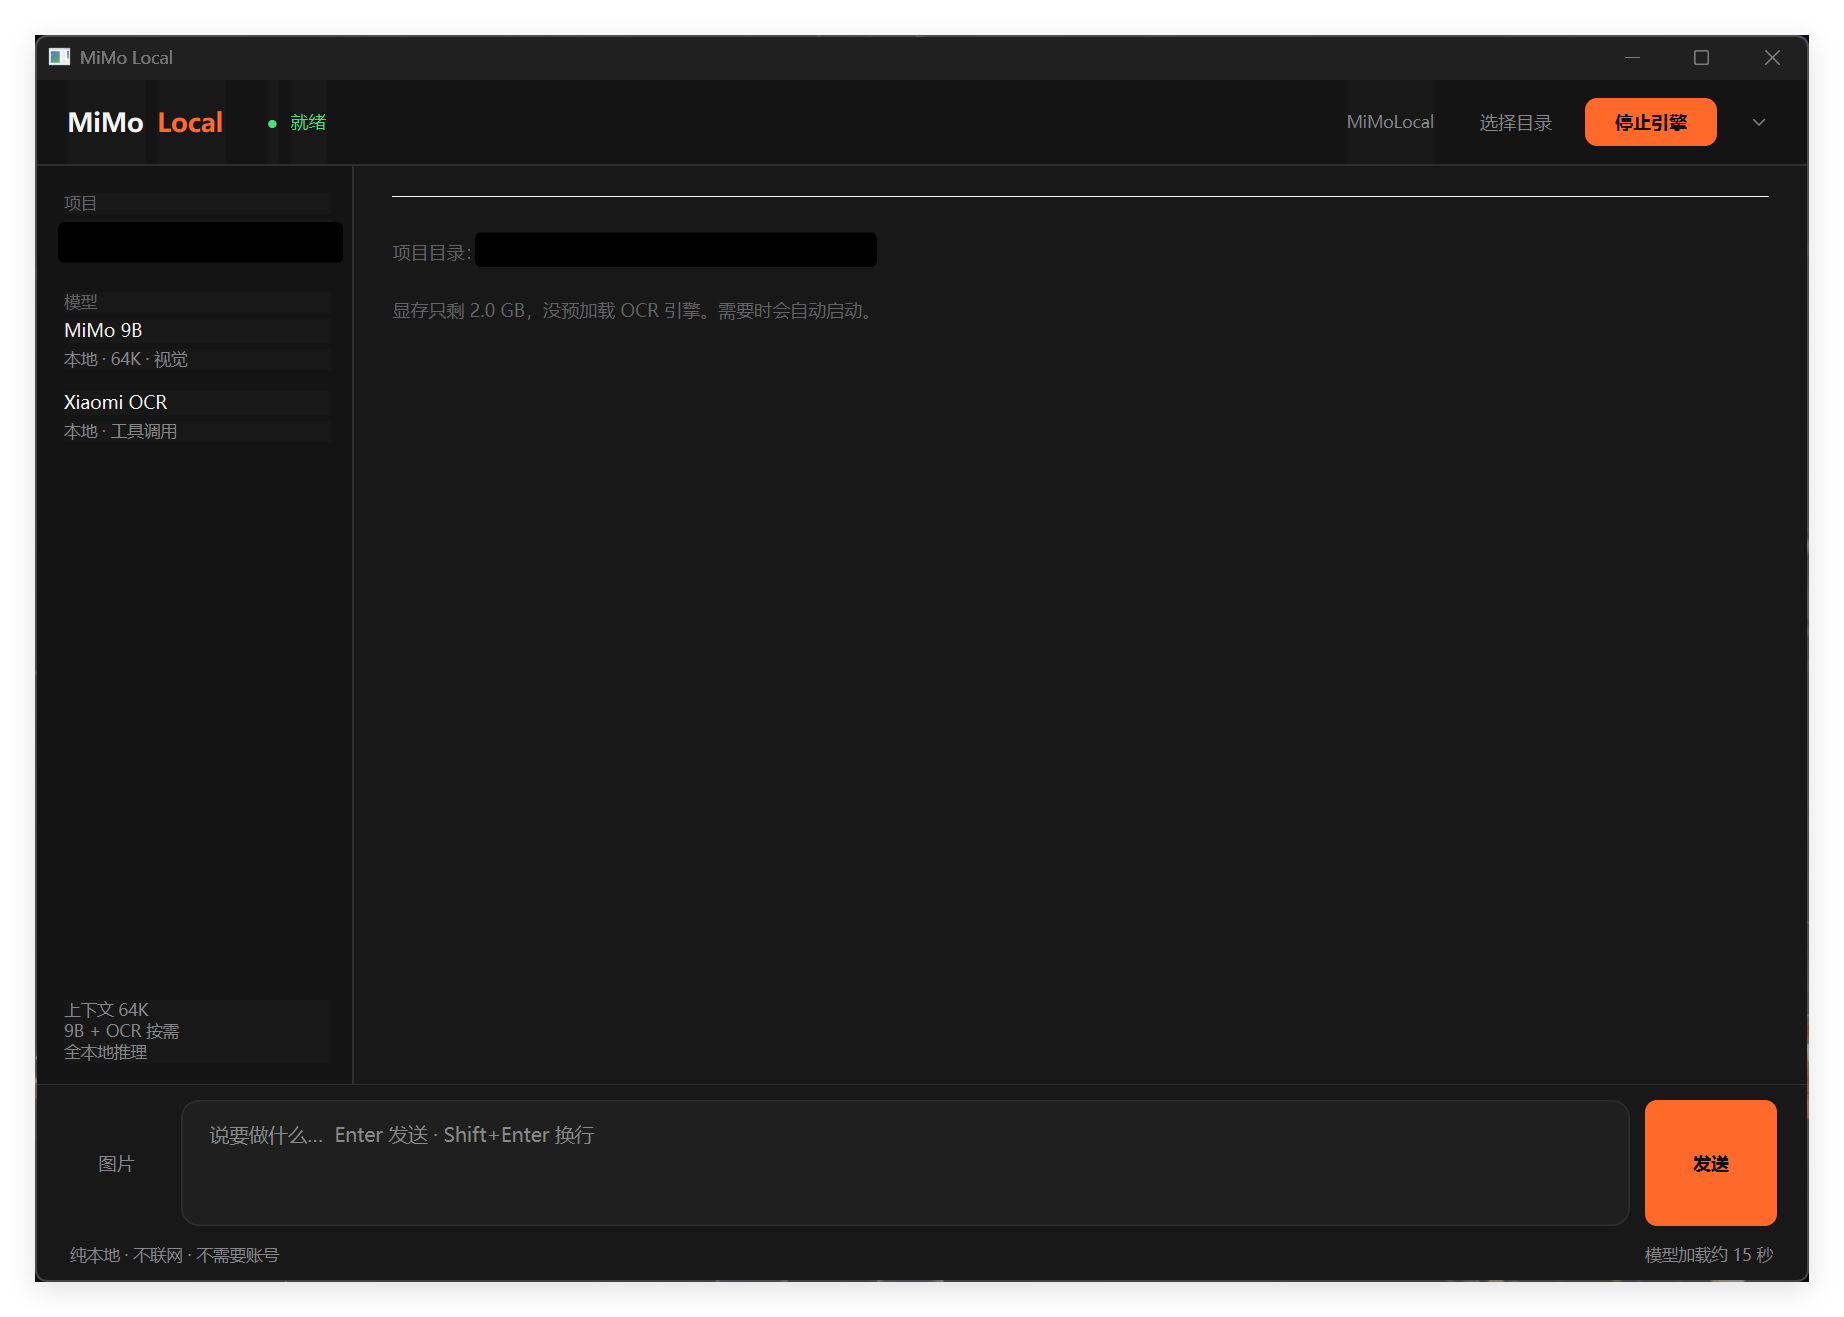
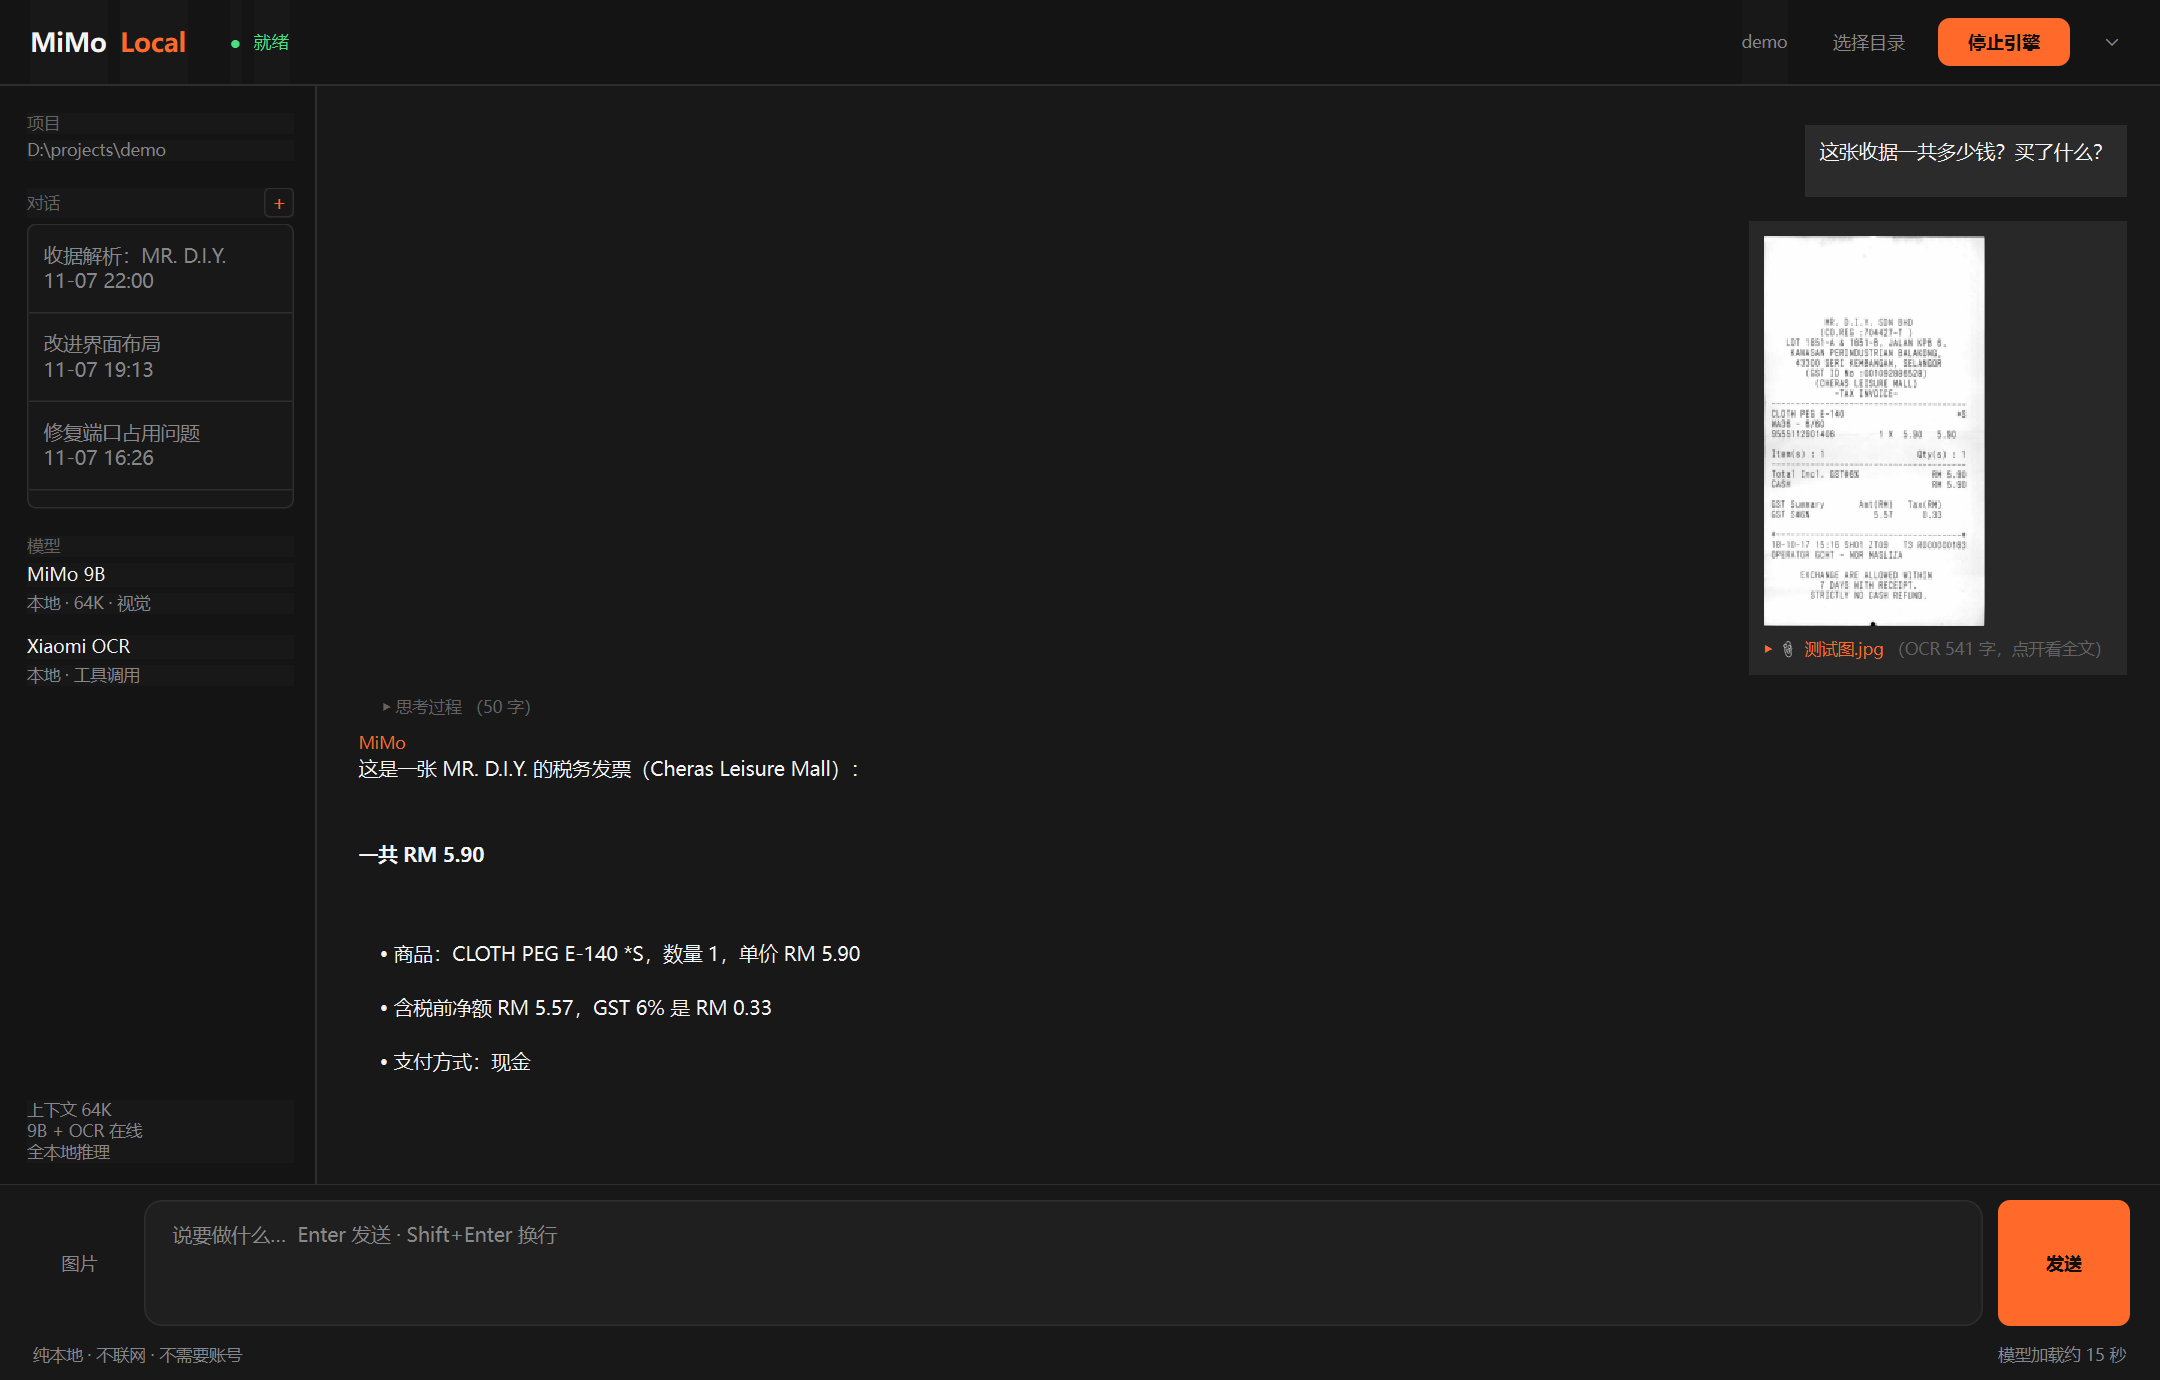
v1.0.22: Markdown 渲染 + 新的功能展示截图
用户要求「更新一下截图，自己做一个图片测试的」。

截图场景：发一张收据图 + 问「一共多少钱？买了什么？」
          → 界面跑 OCR → 缩略图 + 折叠的识别原文 → 模型基于全文回答
内容用的是真实跑出来的 OCR 和回答，通过 Qt 渲染（不启动引擎），
这样截图可控可重复。新增 tools/make_screenshot.py，改界面后重跑即可。

做截图时发现一个真问题：模型回答里的 Markdown 没渲染。
  截图里显示成字面的 `**一共 RM 5.90**`。
  模型是编程助手，回答里一定有 **粗体**、`行内代码`、```代码块```、列表，
  QTextBrowser 只认 HTML，不转的话全显示成原始标记。

修：core/render.py 加 md_to_html()
  - 代码块 ```...```  → 深色底 <pre>（先摘出来占位，避免里面的
    ** ` # 被误处理）
  - 行内代码 `xxx`    → 橙色等宽
  - 粗体 **xxx** / __xxx__
  - 标题 #/##/###     → 粗体大字
  - 无序列表 -/*/•     → 项目符号
  - 有序列表 1.       → 保留编号
  - 引用 >            → 左侧竖线
  注意调用方已做 html.escape，所以引用行首是 &gt; 不是 >（踩过一次）。

自检加「Markdown 能渲染」一项（45 项）。

diff --git a/core/render.py b/core/render.py
@@ -53,6 +53,89 @@ def looks_like_payload(text: str) -> bool:
     return hits >= 2
 
 
+# ---------- Markdown → HTML ----------
+# 模型是编程助手，回答里一定有 **粗体**、`行内代码`、```代码块```、
+# 列表。QTextBrowser 只认 HTML，所以要把这些转过去。
+# 只做最常用的几种，不追求完整 Markdown 规范。
+
+def md_to_html(text: str) -> str:
+    """把模型回答里的常见 Markdown 转成 QTextBrowser 能认的 HTML。
+
+    调用前调用方应该已经做过 html.escape —— 所以这里处理的是
+    转义后的文本（&lt; &gt; &amp; 已就位），只认 Markdown 标记。
+    """
+    import re
+
+    if not text:
+        return ""
+
+    # 1. 先把代码块（```...```）摘出来占位，免得里面的 ** ` # 被误处理
+    fences: list[str] = []
+
+    def _stash(m: re.Match) -> str:
+        code = m.group(1).rstrip("\n")
+        escaped = code.replace("&", "&amp;").replace("<", "&lt;").replace(">", "&gt;")
+        block = (f'<table width="100%" cellpadding="8" cellspacing="0" border="0"'
+                 f' style="margin:8px 0;"><tr><td bgcolor="#141414">'
+                 f'<pre style="color:#d4d4d8;font-family:Consolas,monospace;'
+                 f'font-size:12px;margin:0;line-height:1.5;">{escaped}</pre>'
+                 f'</td></tr></table>')
+        fences.append(block)
+        return f"\x00FENCE{len(fences) - 1}\x00"
+
+    text = re.sub(r"```[^\n]*\n(.*?)```", _stash, text, flags=re.S)
+
+    # 2. 行内代码 `xxx`
+    def _icode(m: re.Match) -> str:
+        inner = m.group(1)
+        return (f'<span style="background:#2b2b2b;color:#ff9b7f;'
+                f'font-family:Consolas,monospace;font-size:12.5px;'
+                f'padding:1px 4px;">{inner}</span>')
+
+    text = re.sub(r"`([^`\n]+)`", _icode, text)
+
+    # 3. 粗体 **xxx**（先做，避免和斜体抢）
+    text = re.sub(r"\*\*([^*\n]+)\*\*", r"<b>\1</b>", text)
+    text = re.sub(r"__([^_\n]+)__", r"<b>\1</b>", text)
+
+    # 4. 标题 # / ## / ### → 粗体大字
+    def _head(m: re.Match) -> str:
+        level = len(m.group(1))
+        size = {1: 17, 2: 15, 3: 14}.get(level, 13)
+        return (f'<div style="font-size:{size}px;font-weight:600;'
+                f'margin:10px 0 4px 0;">{m.group(2)}</div>')
+
+    text = re.sub(r"^(#{1,4})\s+(.+)$", _head, text, flags=re.M)
+
+    # 5. 无序列表 - / * / •
+    def _ul(m: re.Match) -> str:
+        return f'<div style="margin:2px 0 2px 14px;">• {m.group(1)}</div>'
+
+    text = re.sub(r"^\s*[-*•]\s+(.+)$", _ul, text, flags=re.M)
+
+    # 6. 有序列表 1. 2.
+    def _ol(m: re.Match) -> str:
+        return f'<div style="margin:2px 0 2px 14px;">{m.group(1)}. {m.group(2)}</div>'
+
+    text = re.sub(r"^\s*(\d+)[.、]\s+(.+)$", _ol, text, flags=re.M)
+
+    # 7. 引用 > xxx（注意：调用方已 escape，行首是 &gt; 不是 >）
+    def _quote(m: re.Match) -> str:
+        return (f'<div style="margin:4px 0;padding-left:10px;'
+                f'border-left:2px solid #3a3a3a;color:#a1a1aa;">{m.group(1)}</div>')
+
+    text = re.sub(r"^\s*(?:&gt;|>)\s?(.*)$", _quote, text, flags=re.M)
+
+    # 8. 换行 → <br>
+    text = text.replace("\n", "<br>")
+
+    # 9. 代码块占位换回来
+    for i, block in enumerate(fences):
+        text = text.replace(f"\x00FENCE{i}\x00", block)
+
+    return text
+
+
 def decide(part: dict[str, Any], echoes: dict[str, int]) -> tuple[Step | None, str]:
     """决定一个 part 要不要渲染。
 

diff --git a/tools/make_screenshot.py b/tools/make_screenshot.py
@@ -1,0 +1,111 @@
+"""生成 README 用的功能展示截图。
+
+场景：用户发一张收据图 + 问「一共多少钱？买了什么？」
+      → 界面跑 OCR → 缩略图 + 折叠的识别原文 → 模型基于全文回答
+
+内容用的是真实跑出来的 OCR 和回答（不是编的），只是通过 Qt 渲染，
+不真的启动引擎 —— 这样截图可控、可重复。
+"""
+import sys
+from pathlib import Path
+
+ROOT = Path(__file__).resolve().parent.parent
+sys.path.insert(0, str(ROOT))
+
+from PySide6.QtCore import Qt
+from PySide6.QtWidgets import QApplication
+
+app = QApplication(sys.argv)
+import ui_qt
+
+W, H = 1440, 920
+w = ui_qt.MainWindow()
+w.resize(W, H)
+
+# 假的项目目录（别暴露真实路径）
+w.proj_label.setText(r"D:\projects\demo")
+w.lbl_dir.setText("demo")
+w.workdir = Path(r"D:\projects\demo")
+# 顶栏做成「已启动」的样子
+w.btn_engine.setText("停止引擎")
+
+# 左边对话列表
+fake_sessions = [
+    {"id": "ses_1", "title": "收据解析：MR. D.I.Y.", "titleRevision": 1,
+     "time": {"updated": 1794060000000}},
+    {"id": "ses_2", "title": "改进界面布局", "titleRevision": 1,
+     "time": {"updated": 1794050000000}},
+    {"id": "ses_3", "title": "修复端口占用问题", "titleRevision": 1,
+     "time": {"updated": 1794040000000}},
+]
+w._fill_sessions(fake_sessions)
+
+# 底部状态
+w.ctx_label.setText("上下文 64K\n9B + OCR 在线\n全本地推理")
+w._set_status("就绪", "ok")
+
+# ---- 对话内容 ----
+w.items.clear()
+w._by_id.clear()
+w._echoes.clear()
+w._seen.clear()
+w._expanded.clear()
+
+# 1. 用户消息
+u = ui_qt.Item("", "text", role="user")
+u.text = "这张收据一共多少钱？买了什么？"
+w.items.append(u)
+
+# 2. 图片块（缩略图 + 折叠的 OCR 原文）
+img = ROOT / "docs" / "测试图.jpg"
+ocr_text = """MR. D.I.Y. SDN BHD
+(CO.REG :704427-T )
+LOT 1851-A & 1851-B, JALAN KPB 6,
+KAWASAN PERINDUSTRIAN BALAKONG,
+43300 SERI KEMBANGAN, SELANGOR
+(GST ID No :001092886528)
+(CHERAS LEISURE MALL)
+-TAX INVOICE-
+
+CLOTH PEG E-140                     *S
+WA36 - 6/60
+9555112901406            1 X  5.90   5.90
+
+Item(s) : 1                  Qty(s) : 1
+------------------------------------------
+Total Incl. GST@6%                RM 5.90
+CASH                              RM 5.90
+
+GST Summary          Amt(RM)    Tax(RM)
+GST @6%                 5.57        0.33"""
+
+oi = ui_qt.Item("", "ocr")
+oi.tool = img.name
+oi.text = ocr_text
+oi._pending = img
+w.items.append(oi)
+
+# 3. 折叠的思考过程
+r = ui_qt.Item("r1", "reasoning")
+r.text = "这是一张收据，OCR 已经转成文字了。用户问总价和买了什么。\n从文字里找 Total 行和商品行……"
+w.items.append(r)
+
+# 4. AI 回答（真实跑出来的内容）
+a = ui_qt.Item("a1", "text")
+a.text = ("这是一张 MR. D.I.Y. 的税务发票（Cheras Leisure Mall）：\n\n"
+          "**一共 RM 5.90**\n"
+          "• 商品：CLOTH PEG E-140 *S，数量 1，单价 RM 5.90\n"
+          "• 含税前净额 RM 5.57，GST 6% 是 RM 0.33\n"
+          "• 支付方式：现金")
+w.items.append(a)
+
+w._dirty = True
+w._flush()
+w.chat.verticalScrollBar().setValue(0)
+QApplication.processEvents()
+
+# 截图
+pm = w.grab()
+out = ROOT / "docs" / "screenshot.png"
+pm.save(str(out))
+print(f"截图: {out}  {pm.width()}x{pm.height()}  {out.stat().st_size} 字节")

diff --git a/tools/selfcheck.py b/tools/selfcheck.py
@@ -411,6 +411,21 @@ def check_render(c: Checker):
     else:
         c.ok("隐藏文本 / 分隔标记 / 空内容都被正确过滤")
 
+    # Markdown 必须能渲染（模型是编程助手，回答里一定有 **粗体**、`代码`、列表）
+    try:
+        import html as _html
+        from core.render import md_to_html
+        sample = "**一共 RM 5.90**\n- 商品：CLOTH PEG\n```\nprint(1)\n```"
+        out = md_to_html(_html.escape(sample))
+        ok_md = ("<b>" in out and "•" in out and "<pre" in out
+                 and "**" not in out)
+        if ok_md:
+            c.ok("Markdown 能渲染（粗体 / 列表 / 代码块）")
+        else:
+            c.fail("Markdown 没渲染出来（回答会显示成星号）")
+    except Exception as e:
+        c.warn(f"Markdown 检查失败：{e}")
+
     # payload 复述必须被拦（模型有时把收到的 payload 当回答复述一遍）
     try:
         from core.render import looks_like_payload

diff --git a/ui_qt.py b/ui_qt.py
@@ -1503,7 +1503,10 @@ class MainWindow(QMainWindow):
                         f'（{nchars} 字）</span></a></div>'
                     )
             else:  # text —— AI 的回答在**左边**
-                body = html.escape(it.text).replace(chr(10), "<br>")
+                # 模型是编程助手，回答里有 Markdown（粗体/代码块/列表），
+                # 直接 escape 会显示成星号。转成 HTML 再渲染。
+                from core.render import md_to_html
+                body = md_to_html(html.escape(it.text))
                 parts.append(
                     f'<div align="left" style="color:{C_ACCENT};font-size:11px;'
                     f'margin:10px 0 2px 2px;">MiMo</div>'

diff --git a/config.py b/config.py
@@ -72,7 +72,7 @@ MIMO_AGENT_DIR = ROOT / "agent"          # XDG 四路径的落点
 
 # ---------- 版本 ----------
 # 单一来源。About、诊断报告、安装器都从这里取，别在各处再写一份。
-VERSION = "1.0.21"
+VERSION = "1.0.22"
 
 # ---------- 运行期设置 ----------
 # 当前模型、端口等可变状态存在这里，**不写回本文件**。

diff --git a/README.md b/README.md
@@ -5,8 +5,12 @@
 
 ![MiMo Local](docs/screenshot.png)
 
+<p align="center"><i>发一张收据图，问「一共多少钱？买了什么？」——
+界面自己跑 OCR，缩略图和识别原文就在对话里，模型基于全文回答。</i></p>
+
 一个 Windows 桌面程序。打开就是编程界面，模型跑在本地显卡上，
-需要看图时模型会自己调用本地的 OCR —— 不需要切换模式，也不需要切窗口。
+需要看图时点左下角「图片」—— OCR 出来的文字直接成为模型的依据，
+不需要切换模式，也不需要切窗口。
 
 ---
 
